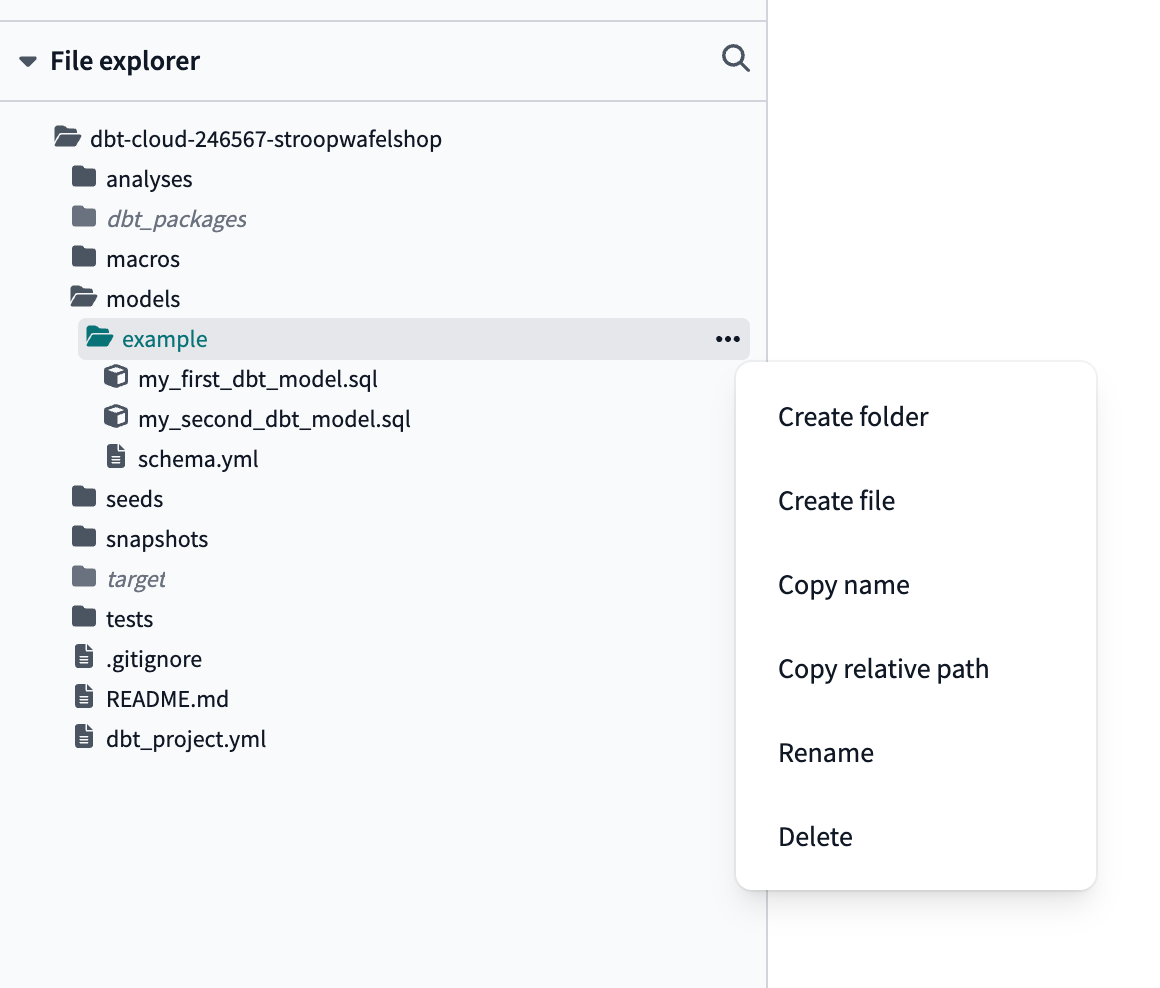
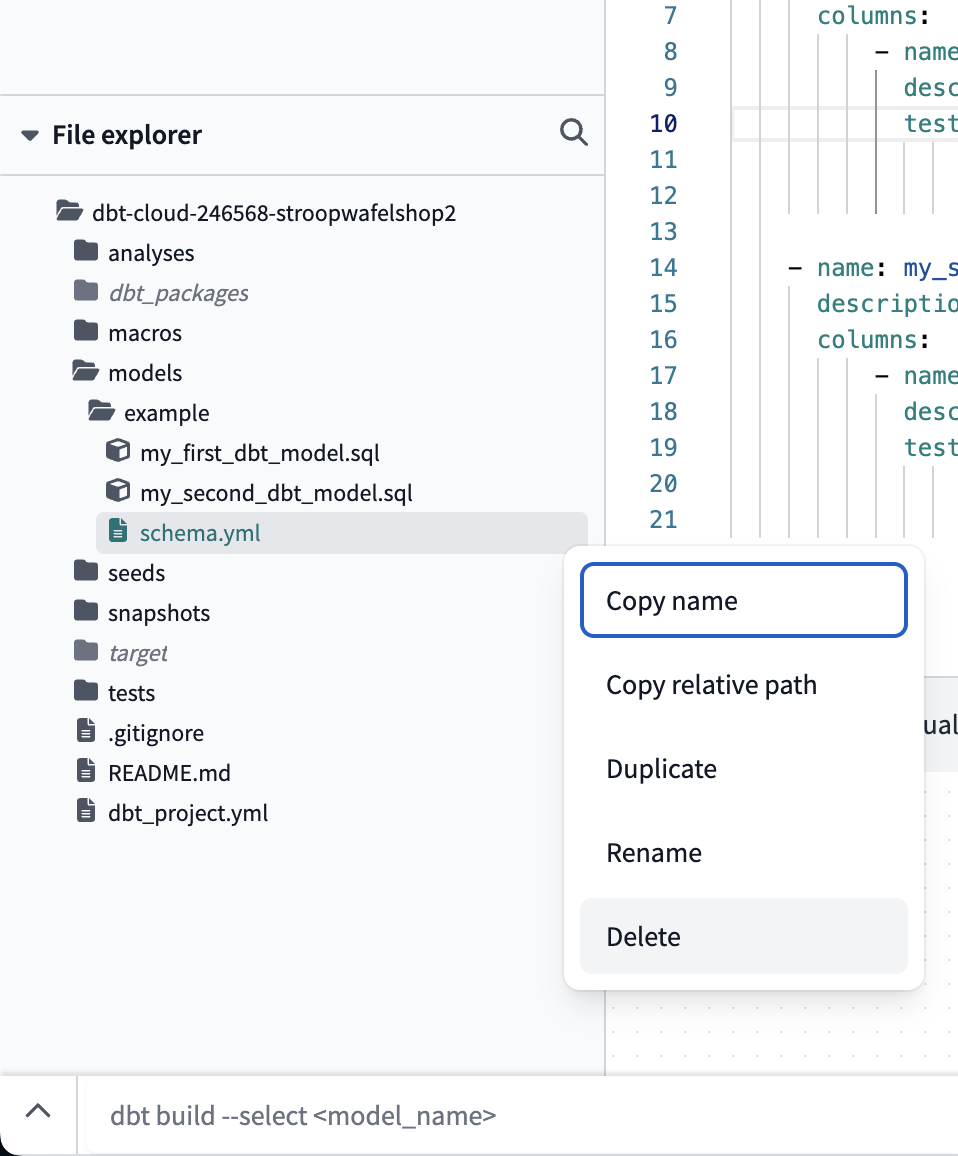
Add videos

diff --git a/chapter_8/guides/setting_up_dbt_cloud.md b/chapter_8/guides/setting_up_dbt_cloud.md
@@ -16,8 +16,9 @@ contains the following sections:
 3. Initializing the project
 4. Creating a branch
 5. Testing the connection
-6. Deleting the example models
-7. Potential issues
+6. Building the example model
+8. Deleting the example models
+9. Potential issues
 
 Let’s start!
 
@@ -125,7 +126,7 @@ Next, you will see the name of your branch in the top-left corner (`lbenninga` f
 <img src="images/dbt_cloud/dbt_cloud_figure_7.png" alt="Figure 7 - Newly created branch" width="500"/>
 <p align="center">Figure 7 - Newly created branch</p>
 
- This means that you are ready to start working on the project. Any changes you make, will appear in the changes window, and you can commit them to the branch. Once you are happy with the changes, you can merge them back into the main branch using the **Merge this branch to main** button. Every time you do that, however, you will need to create a new branch again before you can start making changes. This process repeats itself everytime you want to sync changes to the main branch. 
+ This means that you are ready to start working on the project. Any changes you make, will appear in the changes window, and you can commit them to the branch. Once you are happy with the changes, you can merge them back into the main branch using the **Merge this branch to main** button. Every time you do that, however, you will need to create a new branch again before you can start making changes. This process repeats itself everytime you want to sync changes to the main branch.
  
  However, for the duration of chapter 8 it will not be necessary to merge into `main` until the very end of the chapter. Until then, you can keep saving and committing files into your own branch. For now, we will leave the branch as it is, and move on to the next step, which is testing the connection to BigQuery.
 
@@ -142,35 +143,55 @@ select * from stroopwafelshopdata.Employees
 Make sure that `Employees` is capitalized since BigQuery tables are case-sensitive. Then, select **Preview** at the bottom of the screen. This will select the Employees table from the `stroopwafelshopdata` dataset in BigQuery.
 
 The dbt Cloud IDE will send the SQL to be executed to the data warehouse, in this case
-BigQuery, and display the results in the IDE (as shown in Figure 5). 
+BigQuery, and display the results in the IDE (as shown in Figure 8).
 
 <img src="images/dbt_cloud/dbt_cloud_figure_8.png" alt="Figure 8 - Testing the connection" width="500"/>
 <p align="center">Figure 8 - Testing the connection</p>
 
 Since there are only a few rows returned, all will be displayed. This confirms that the connection works. You can close and disregard the `Untitled-1` file you just created.
 
+**Building the example model**
+
 Next, open up the `models` folder on the left-hand side of the screen. You should see a subfolder named `example`. This contains some example models that dbt Cloud has created for you. Click on `my_first_dbt_model.sql` to open it. It will display the model's code in the center of the screen. Preview it to show the results, as shown in Figure 9.
 
 <img src="images/dbt_cloud/dbt_cloud_figure_9.png" alt="Figure 9 - Previewing the example model" width="500"/>
 <p align="center">Figure 9 - Previewing the example model</p>
 
-You can see that the model is working, and that the connection to BigQuery is functioning correctly. You can play around with the other functionaltiy in the IDE if you want. Don't worry, you can't break anything. Once you are ready to continue, we will remove the `example` folder since we will be creating our own models.
+
+Now, next we will want to *build* the model, which means storing the model's results in the target schema (dataset) in BigQuery. This is commonly referred to as *materializing* the model. This is necessary currently the model only exists as a SQL file in the dbt Cloud IDE, and not as a table/view in BigQuery.
+
+ To do this, we we will first delete the `schema.yml` file since it includes some extra functionality that we don't want right now. Do that by clicking on the three dots next to the `schema.yml` file and selecting **Delete**. Then confirm the deletion by selecting **Delete** in the pop-up window as shown in Figure 10.
+
+<img src="images/dbt_cloud/dbt_cloud_figure_10.png" alt="Figure 10 - Deleting the `schema.yml`" width="400"/>
+<p align="center">Figure 10 - Deleting the `schema.yml`</p>
+
+ Next, try to build the model using the **Build** button. This will create your target schema (`dbt_lbenninga` for me) as a dataset in BigQuery, and then create the `my_first_dbt_model` table inside of it. After building the model, you should see a confirmation message at the left of the screen as shown in Figure 11.
+
+<img src="images/dbt_cloud/dbt_cloud_figure_11.png" alt="Figure 11 - Building `my_first_dbt_model`"  width="700"/>
+<p align="center">Figure 11 - Building "my_first_dbt_model"</p>
+
+Now, go to BigQuery and check if the model has been materialized. You should see the `my_first_dbt_model` table in the `dbt_lbenninga` dataset, as shown in Figure 12. Both were created when you ran *build* in dbt Cloud.
+
+<img src="images/dbt_cloud/dbt_cloud_figure_12.png" alt="Figure 12 - The model materialized in BigQuery" width="400"/>
+<p align="center">Figure 12 - The model materialized in BigQuery</p>
 
 **Deleting the example models**
 
-We don't need the `example` models since we will create our own. You can create/rename/delete files and folders in the **File explorer** window by using the three dots next to files/folders. Click on the three dots next to the `example` folder and select **Delete** as shown in Figure 10. Then confirm the deletion by selecting **Delete** in the pop-up window.
+From now on, we won't use the example models anymore. In the chapter, we will create our own models. To clean up the project, we will delete the `example` folder. To do this, click on the three dots next to the `example` folder and select **Delete**. Then confirm the deletion by selecting **Delete** in the pop-up window.
 
-<img src="images/dbt_cloud/dbt_cloud_figure_10.png" alt="Figure 10 - Deleting the example models" width="500"/>
-<p align="center">Figure 10 - Deleting the example models</p>
+ Next, you will see that the deleted files are listed in the changes window, as shown in Figure 13.
 
- Next, commit this change into the branch by selecting **Commit and sync**. Fill in a commit message, for example *Removed example models*, and select **Commit Changes**. Now, the `example` folder is removed from the branch and the changes are saved. You are ready to continueing working on the project.
+<img src="images/dbt_cloud/dbt_cloud_figure_13.png" alt="Figure 13 - Commiting the deletions" width="400"/>
+<p align="center">Figure 13 - Committing the deletions</p>
 
+ You can commit this change into your branch by selecting **Commit and sync**. Fill in a commit message, for example *Removed example models*, and select **Commit Changes**. Now, the `example` folder is removed from the branch and the changes are saved. Note however that eventhough we deleted the models in the IDE and saved these changes into our branch, [dbt Cloud will not delete materialized models from the data warehouse](https://docs.getdbt.com/faqs/Models/removing-deleted-models). You will have to do this manually by going back to BigQuery.  There, delete the `my_first_dbt_model` table in the `dbt_lbenninga` dataset as shown in Figure 13.
 
-Congratulations! You have successfully set up dbt Cloud and tested the connection to BigQuery. Continue from where you left off in  chapter 8, and start modeling the data in dbt Cloud.
+<img src="images/dbt_cloud/dbt_cloud_figure_14.png" alt="Figure 14 - Deleting the `my_first_dbt_model` table" width="400"/>
+<p align="center">Figure 14 - Deleting the `my_first_dbt_model` table</p>
+
+Once done, you cleaned up the project and are ready to start modeling the data in dbt Cloud. Check out the potential issues section to handle any issues you might encounter. After that, head back to the chapter to start modeling the Stroopwafelshop data.
 
 ## Potential issues
-
-Note the following potential issues if you are having trouble with dbt Cloud in the chapter.
 
 ### Errors in the connection to BigQuery
 
